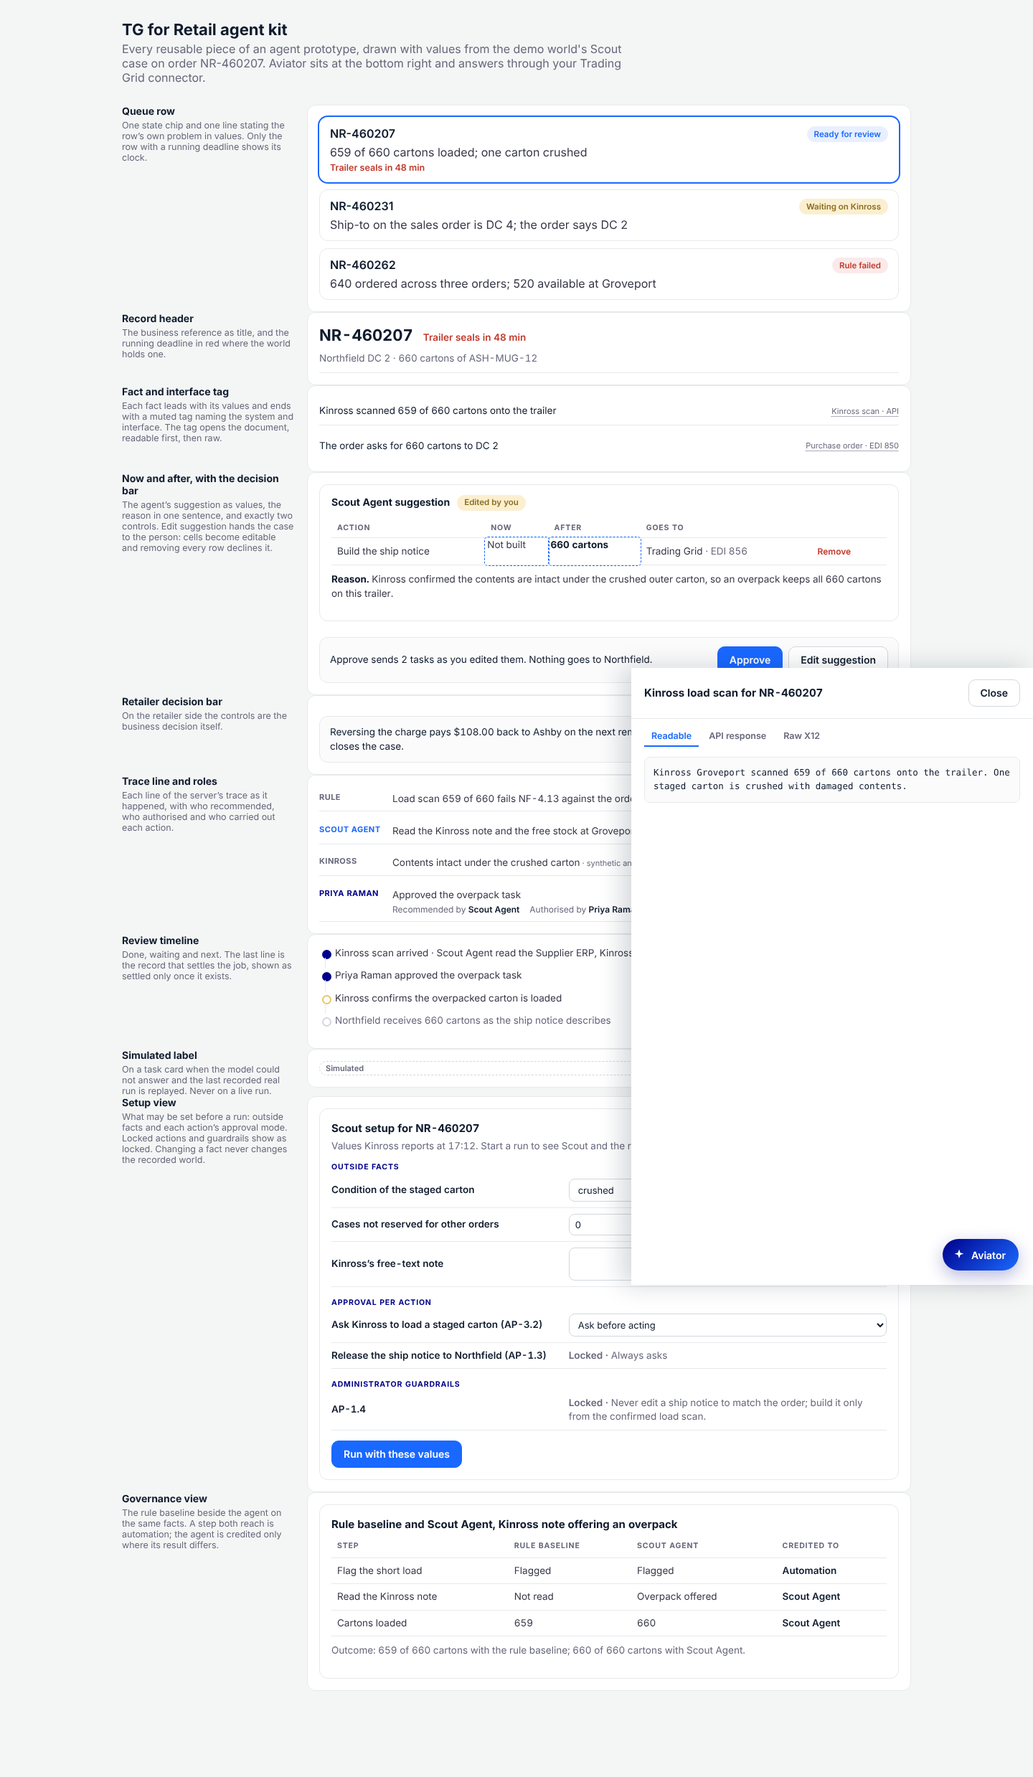
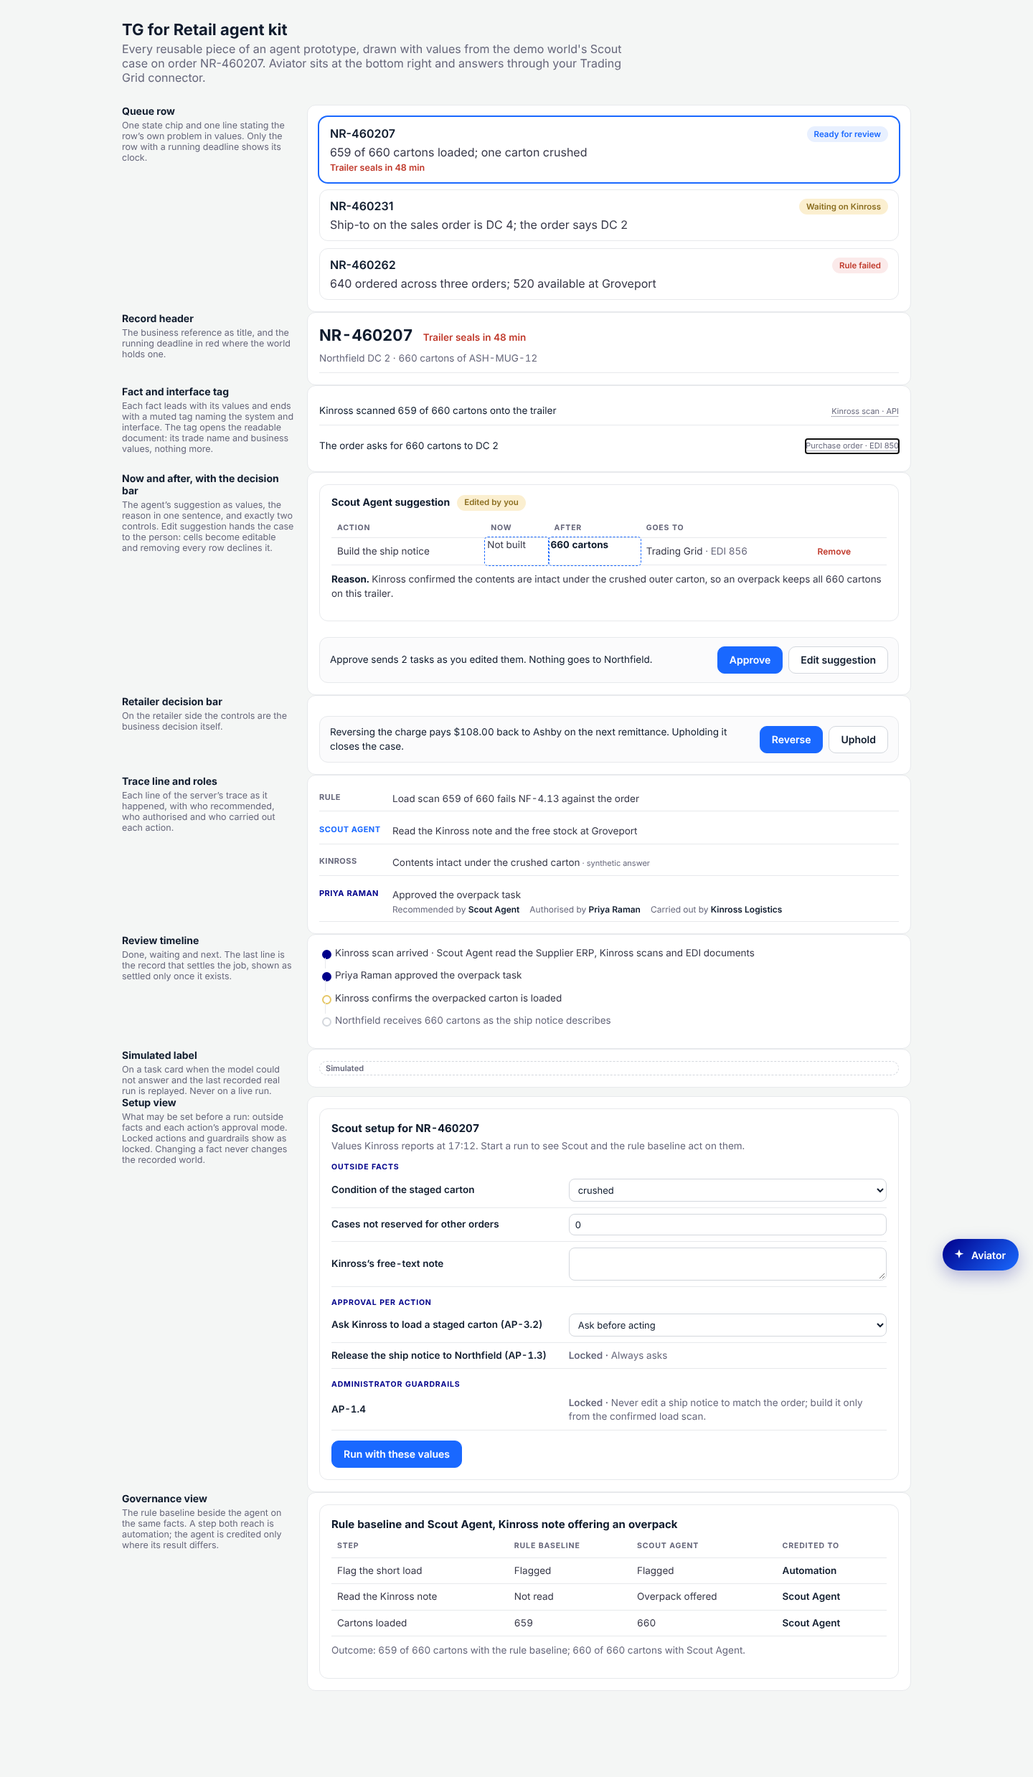
Raw X12 leaves every prototype screen: kit 1.2.0 drawer shows the readable document only; kit-check fails on any raw X12; T1.5 closed (D63, R43; CALLS 99)
Claude-Session: https://claude.ai/code/session_01FxHhsovKkRLnUgcFfGwYhX

Changed region(s): [[0.5938, 0.373, 0.8438, 0.715], [0.25, 0.2176, 0.2812, 0.2487]]

diff --git a/ui/tg-agent-kit.js b/ui/tg-agent-kit.js
@@ -43,9 +43,9 @@
 /* drawer */
 .tgk-drawer{position:fixed;inset:0 0 0 auto;width:min(560px,100vw);background:var(--tgk-card);box-shadow:-12px 0 32px rgba(15,27,45,.18);z-index:60;display:flex;flex-direction:column;transform:translateX(100%);transition:transform .22s ease}
 .tgk-drawer[data-open]{transform:none}.tgk-drawer header{display:flex;justify-content:space-between;align-items:center;padding:16px 18px;border-bottom:1px solid var(--tgk-divider)}
-.tgk-drawer h3{margin:0;font-size:15px;color:var(--tgk-ink)}.tgk-tabs{display:flex;gap:4px;padding:10px 18px 0}.tgk-tabs button{font:600 12.5px var(--tgk-font);border:0;background:none;padding:6px 10px;border-bottom:2px solid transparent;color:var(--tgk-muted);cursor:pointer}
-.tgk-tabs button[aria-selected=true]{color:var(--tgk-action);border-bottom-color:var(--tgk-action)}.tgk-drawer .body{padding:14px 18px;overflow:auto;flex:1}
-.tgk-drawer pre{font:12.5px/1.5 var(--tgk-mono);white-space:pre-wrap;word-break:break-all;background:var(--tgk-subtle);border:1px solid var(--tgk-divider);border-radius:8px;padding:12px;margin:0;color:var(--tgk-ink)}
+.tgk-drawer h3{margin:0;font-size:15px;color:var(--tgk-ink)}
+.tgk-drawer .body{padding:14px 18px;overflow:auto;flex:1}
+.tgk-doc{display:grid;grid-template-columns:max-content 1fr;gap:8px 16px;margin:0}.tgk-doc dt{color:var(--tgk-muted);font-size:12.5px}.tgk-doc dd{margin:0;color:var(--tgk-ink)}.tgk-doc-text{margin:0 0 10px;color:var(--tgk-ink)}
 /* now and after */
 .tgk-sugg{border:1px solid var(--tgk-divider);border-radius:12px;background:var(--tgk-card);padding:14px 16px}
 .tgk-sugg .head{display:flex;align-items:center;gap:10px;margin-bottom:10px}.tgk-sugg .head b{color:var(--tgk-ink);font-size:14px}
@@ -126,25 +126,30 @@
   /** The record header: business reference as title, the running deadline in red where one exists. */
   function recordHeader({ title, deadline, sub }) { return kit(el('div', { class: 'tgk-rhead' }, el('h2', { text: title }), deadline ? el('span', { class: 'deadline', text: deadline }) : null, sub ? el('span', { class: 'sub', text: sub }) : null)); }
 
-  /** The interface tag: system and interface in muted 11px text, no box; opens the document in the drawer. */
+  /** The interface tag: system and interface in muted 11px text, no box; opens the readable document in the drawer, and nothing more. */
   function interfaceTag({ system, via, doc }) {
     const label = [system, via].filter(Boolean).join(' · ');
-    return el('button', { class: 'tgk-tag', type: 'button', title: doc ? `Open ${doc.title}` : label, onclick: doc ? () => drawer(doc) : null, text: label });
+    return el('button', { class: 'tgk-tag', type: 'button', 'data-doc': doc ? 'readable' : null, title: doc ? `Open ${doc.title}` : label, onclick: doc ? () => drawer(doc) : null, text: label });
   }
 
   /** One fact the agent found, in values, ending with its interface tag. */
   function factRow({ text, system, via, doc }) { return kit(el('div', { class: 'tgk-fact' }, el('span', { class: 'text', text }), interfaceTag({ system, via, doc }))); }
 
   let openDrawer = null;
-  /** A drawer holding one document: readable first, then its raw format (raw X12, API request and response). */
-  function drawer({ title, tabs }) {
+  /** A drawer holding one readable document: its trade name and reference as the title, then its business values.
+   * Pass fields as [label, value] pairs, or content as a short readable text or Node. Nothing else is shown: no raw X12,
+   * no segment text, no request or response payload, no format tabs. A legacy tabs list is read for its Readable tab only. */
+  const RAW_X12 = /(^|[^A-Za-z0-9])(?:ISA|GS|ST|SE|GE|IEA|[A-Z][A-Z0-9]{1,2})\*[^\n]{0,80}?\*/;
+  function drawer({ title, fields, content, tabs }) {
     injectCss(); if (openDrawer) openDrawer.remove();
-    const body = el('div', { class: 'body' }); const bar = el('div', { class: 'tgk-tabs', role: 'tablist' });
-    const show = (i) => { body.replaceChildren(typeof tabs[i].content === 'string' ? el('pre', { text: tabs[i].content }) : tabs[i].content); [...bar.children].forEach((b, j) => b.setAttribute('aria-selected', String(i === j))); };
-    tabs.forEach((t, i) => bar.append(el('button', { type: 'button', role: 'tab', onclick: () => show(i), text: t.label })));
+    if (content == null && !fields && Array.isArray(tabs)) { const t = tabs.find((x) => /readable/i.test(x.label)) || tabs[0]; content = t && t.content; }
+    const body = el('div', { class: 'body' });
+    if (fields) body.append(el('dl', { class: 'tgk-doc' }, ...fields.flatMap(([k, v]) => [el('dt', { text: k }), el('dd', { text: String(v) })])));
+    if (content != null) body.append(typeof content === 'string' ? el('p', { class: 'tgk-doc-text', text: content }) : content);
+    if (RAW_X12.test(body.textContent)) { body.replaceChildren(el('p', { class: 'tgk-doc-text', text: 'This document is shown in readable form only.' })); }
     const close = () => { d.removeAttribute('data-open'); setTimeout(() => d.remove(), 240); openDrawer = null; };
-    const d = kit(el('aside', { class: 'tgk-drawer', role: 'dialog', 'aria-label': title }, el('header', {}, el('h3', { text: title }), el('button', { class: 'tgk-btn', type: 'button', onclick: close, text: 'Close' })), bar, body));
-    document.body.append(d); show(0); requestAnimationFrame(() => d.setAttribute('data-open', '')); openDrawer = d;
+    const d = kit(el('aside', { class: 'tgk-drawer', role: 'dialog', 'aria-label': title }, el('header', {}, el('h3', { text: title }), el('button', { class: 'tgk-btn', type: 'button', onclick: close, text: 'Close' })), body));
+    document.body.append(d); requestAnimationFrame(() => d.setAttribute('data-open', '')); openDrawer = d;
     document.addEventListener('keydown', function esc(e) { if (e.key === 'Escape') { close(); document.removeEventListener('keydown', esc); } });
     return d;
   }
@@ -272,5 +277,5 @@
     return { element: wrap, ask, open: () => { panel.setAttribute('data-open', ''); btn.setAttribute('aria-expanded', 'true'); } };
   }
 
-  root.TGAgentKit = Object.freeze({ version: '1.1.0', css: CSS, injectCss, connector, el, queueRow, recordHeader, interfaceTag, factRow, drawer, nowAfter, compareTable, decisionBar, sentState, roleTrace, traceLine, timeline, simulated, setupView, fromServerSetup, governanceView, aviator, SERVERS });
+  root.TGAgentKit = Object.freeze({ version: '1.2.0', css: CSS, injectCss, connector, el, queueRow, recordHeader, interfaceTag, factRow, drawer, nowAfter, compareTable, decisionBar, sentState, roleTrace, traceLine, timeline, simulated, setupView, fromServerSetup, governanceView, aviator, SERVERS });
 })(typeof window !== 'undefined' ? window : globalThis);

diff --git a/ui/kit-gallery.html b/ui/kit-gallery.html
@@ -26,8 +26,7 @@ section.piece>div:first-child h2{margin:0 0 4px;font-size:14px;color:var(--tgk-i
   const K = window.TGAgentKit; K.injectCss();
   const box = document.getElementById('pieces');
   const piece = (name, says, ...nodes) => { const s = K.el('section', { class: 'piece' }, K.el('div', {}, K.el('h2', { text: name }), K.el('p', { text: says })), K.el('div', { class: 'stage' }, ...nodes)); box.append(s); };
-  const x12 = 'ISA*00*          *00*          *ZZ*KINROSS        *ZZ*ASHBYSUP       *261208*2212*U*00401*000001412*0*P*>~\nGS*SW*KINROSS*ASHBYSUP*20261208*221200*1412*X*004010~\nST*945*0001~\nW06*N*W945-460207*20261208*SHP-460207**NR-460207~';
-  const doc = { title: 'Kinross load scan for NR-460207', tabs: [{ label: 'Readable', content: 'Kinross Groveport scanned 659 of 660 cartons onto the trailer. One staged carton is crushed with damaged contents.' }, { label: 'API response', content: '{\n "shipment": "SHP-460207",\n "cartons_loaded": 659,\n "cartons_expected": 660,\n "by_sscc": true\n}' }, { label: 'Raw X12', content: x12 }] };
+  const doc = { title: 'Kinross load scan for NR-460207', fields: [['From', 'Kinross Logistics, Groveport'], ['Order', 'NR-460207'], ['Cartons loaded', '659 of 660'], ['Exception', 'One staged carton crushed, contents damaged']] };
 
   piece('Queue row', 'One state chip and one line stating the row’s own problem in values. Only the row with a running deadline shows its clock.',
     K.queueRow({ ref: 'NR-460207', chip: 'Ready for review', tone: 'live', line: '659 of 660 cartons loaded; one carton crushed', clock: 'Trailer seals in 48 min', open: true }),
@@ -35,9 +34,9 @@ section.piece>div:first-child h2{margin:0 0 4px;font-size:14px;color:var(--tgk-i
     K.queueRow({ ref: 'NR-460262', chip: 'Rule failed', tone: 'fail', line: '640 ordered across three orders; 520 available at Groveport' }));
   piece('Record header', 'The business reference as title, and the running deadline in red where the world holds one.',
     K.recordHeader({ title: 'NR-460207', deadline: 'Trailer seals in 48 min', sub: 'Northfield DC 2 · 660 cartons of ASH-MUG-12' }));
-  piece('Fact and interface tag', 'Each fact leads with its values and ends with a muted tag naming the system and interface. The tag opens the document, readable first, then raw.',
+  piece('Fact and interface tag', 'Each fact leads with its values and ends with a muted tag naming the system and interface. The tag opens the readable document: its trade name and business values, nothing more.',
     K.factRow({ text: 'Kinross scanned 659 of 660 cartons onto the trailer', system: 'Kinross scan', via: 'API', doc }),
-    K.factRow({ text: 'The order asks for 660 cartons to DC 2', system: 'Purchase order', via: 'EDI 850', doc: { title: 'Purchase order NR-460207', tabs: [{ label: 'Readable', content: 'Northfield orders 660 cases of ASH-MUG-12 for DC 2.' }, { label: 'Raw X12', content: 'BEG*00*SA*NR-460207**20261201~' }] } }));
+    K.factRow({ text: 'The order asks for 660 cartons to DC 2', system: 'Purchase order', via: 'EDI 850', doc: { title: 'Purchase order NR-460207', fields: [['Buyer', 'Northfield Retailer'], ['Ship to', 'Northfield DC 2'], ['Item', 'ASH-MUG-12'], ['Quantity', '660 cases']] } }));
   let rows = [{ action: 'Overpack the crushed carton', now: '659 loaded', after: '660 loaded', goesTo: 'Kinross Logistics', via: 'API' }, { action: 'Build the ship notice', now: 'Not built', after: '660 cartons', goesTo: 'Trading Grid', via: 'EDI 856' }];
   const sugg = K.el('div'); const bar = K.el('div');
   const draw = (editing) => {

diff --git a/docs/build-guide.md b/docs/build-guide.md
@@ -63,6 +63,7 @@ Each rule has one home, here. Its ID is how `docs/guide/coverage.json` maps the 
 - **R11** No dates, feature IDs, durations beside buttons, green ticks, or stage labels such as detect, prioritize, act and verify.
 - **R12** No variant or scenario pickers.
 - **R13** Colours come only from the OpenText TG Retail Design System tokens.
+- **R43** No raw X12 on any prototype screen: no raw tab, panel or segment text. An interface tag may open the readable document, its trade name and business values, and nothing more. The world, the validators and both connections keep producing X12; only screens drop it, and `npm run kit-check` fails a page that shows any (D63).
 
 **Agents**
 
@@ -234,6 +235,7 @@ The owner approved change items 1 to 14 on 12 November. Two are done, five are p
 | D59 | The model behind Aviator runs on the server, never in a page: the key sits in the server's environment and a page posts its question to one endpoint. The owner supplied a Gemini key for testing and will rotate it; the model is gemini-3.5-flash-lite. A secondary key with gemini-3.8-flash takes over when the primary's quota is spent or the model is busy; the owner will rotate both. Source: owner, 13 and 15 November. | A decision to answer through the viewer's own connectors on a published page |
 | D60 | The world stays one relationship, Ashby and Northfield, and grows to cover every stage of procure-to-pay and order-to-cash between them, promotions included, so future prototypes find their records ready. Item data in the catalogue is evidence for avoiding and disputing charges. Values come from standards and public retailer guides first; expertise fills only the gaps, marked invented. Source: owner, 14 November. | A second relationship becoming necessary for a prototype |
 | D61 | An agent in a prototype is a real agent, not a scripted one: a model on the server chooses its reads and proposes actions in a session branched from the world at the story moment, with later records hidden. The server enforces each action's approval and the administrator guardrails. Kinross and Northfield answer by deterministic rules, labelled synthetic. A rule baseline runs on the same facts and actions, and a step is called automation where the two match. P5 is first (`src/scout.js`); P6, P7 and P9 must each show why an agent is needed. Source: owner, 14 November. | A prototype whose agent adds nothing over the baseline in every variation |
+| D63 | Raw X12 leaves every prototype screen: the agent kit's drawer shows the readable document only, kit-check fails a page with any raw X12 in its source, text or drawers, and raw X12 panels are no longer built or compared (R43). Source: owner, 15 November. | A demo audience that must see the wire format |
 | D62 | Phase 3 starts when the first build's dependencies are Done: T3.1, T2.2 and T2.3's built parts. The other Phase 1 and 2 rows run alongside it, and a Phase 1 row is pulled forward when a spec needs one of its records. T3.4 is folded into T3.2's Done when, because its own Done when named the prototype T3.2 builds. Source: owner, 15 November. | A spec that needs a world record a deferred Phase 1 row would add |
 
 **Open questions for the owner**
@@ -395,7 +397,7 @@ Evidence for each grid cell goes in `docs/phase0/`, under its check. For a grid-
 | T1.2 | P7 | Settle week 6 orders and the charge figure | — | `contract/claims.json` | Evidence: the world wins and does not change (D51); the live-page contract check moves to T4.15; CALLS 54 | Done |
 | T1.3 | World | Partner records in the timeline | — | Partner checks | Evidence: no partner record is added (D52); CALLS 54 | Done |
 | T1.4 | P8 | Shipments without a receipt | — | `docs/build-log/CALLS.md` | Other suppliers' shipments with no receipt are P8's stuck value. Kept as built: the owner left the call to the builder (CALLS 63) | Done |
-| T1.5 | All screens | Raw X12 panels generated from the world. The tools and the contract check are built; the screens' panels are not yet world text (`docs/phase1/T1.5-x12-panels.md`, CALLS 69). Each screen's panels change in its Phase 4 row | — | `build/tg.db`; `npm run contract` | Every raw X12 panel matches a world document byte for byte, checked by the contract test | Open |
+| T1.5 | All screens | Raw X12 panels generated from the world | — | R43 | No longer required: raw X12 leaves every screen (D63) and kit-check fails any page that shows it; CALLS 99 | Done |
 | T1.6 | P14, P15 | World records for every Prototype specs decision row: a price variance under NF-7.11, and other suppliers' ship notices that NFD-1 would fail | — | Prototype specs: P14 and P15; `docs/phase1/change-list-1.md`, its section C | Evidence: commit d286170; gate checks `nf.match.price_held`, `nf.match.price_cleared_by_change`, `nf.match.total_fault`, `nf.replay.nfd2` and `nf.replay.nfd1_reaches_other_suppliers`; CALLS 59 | Done |
 | T1.8 | P7 | World record for a Northfield scorecard after the corrective work | — | P7's Inventory row | Evidence: not needed once P7's ending moved to shared figures, CALLS 38 | Done |
 | T1.7 | P2 | Supplier vetting in the world: one supplier vetted by a third party, one that confirms vetting itself, and a Northfield rule that activation waits for either | — | D31; Prototype specs, Supplier vetting in P2 | Not needed; CALLS 90 | Done |
@@ -516,12 +518,12 @@ The gate and smoke tests pass at commit 5314193af2. Two of the plan's proofs hav
 | Server smoke: both scopes, refusals, the shared deduction case | `npm run smoke` | 84 passed, 0 failed |
 | X12 validation | `npm run validate` | Passes, but its schemas were generated in this repo, so it does not meet the independent-schema test |
 | X12 against schemas this repo did not write | `validator/botscheck.py` with the bots-grammars X12 grammars | Every document checked; it faults exactly the documents the world rejects on a 997, and nothing else; all ten injected faults are rejected for their reason (`validator/bots-report.json`) |
-| Contract test of on-screen values: it checks every number a screen shows and requires none | `npm run contract` | Run on the live pages on 15 November for P1, P2, P4, P5, P6, P7 and P8 (`docs/phase3/contract-report-2026-11-15.json`): P2 and P4 pass; P1 and P8 differ only in raw X12 panels (T1.5); P5, P6 and P7 differ in dates, rule wording and, for P7, three order numbers, each a Phase 4 row. P9 and P11 were read but not saved as files, so only their record numbers were checked by hand: P9 shows one sales order number the world lacks, and P11 shows five record numbers the world lacks, including its ship notice number. P12 is retired. |
+| Contract test of on-screen values: it checks every number a screen shows and requires none | `npm run contract` | Run on the live pages on 15 November for P1, P2, P4, P5, P6, P7 and P8 (`docs/phase3/contract-report-2026-11-15.json`): P2 and P4 pass; P1 and P8 differ only in raw X12 panels, which leave the screens under R43; P5, P6 and P7 differ in dates, rule wording and, for P7, three order numbers, each a Phase 4 row. P9 and P11 were read but not saved as files, so only their record numbers were checked by hand: P9 shows one sales order number the world lacks, and P11 shows five record numbers the world lacks, including its ship notice number. P12 is retired. |
 | Golden questions, Ashby agents, scorecard and deductions | `docs/phase0/golden/grade-report.json` | 49 of 50. The earlier set's grader was never committed. |
 | Golden questions, Northfield | `docs/phase2/golden-nf/grade-report.json` | 50 of 50 |
 | Live server | /healthz | ok, version 0.3.0, writes on, Aviator on, read on 14 November with commit cd9717d deployed |
 | Aviator loop, tool declarations, model fallback and refusals | `npm run aviator-test` | 11 passed, 0 failed, against a stand-in model. Live with gemini-3.5-flash-lite on the built world: P11's hold answered correctly, another supplier's cases refused, Ashby's own cases counted correctly (`docs/phase2/aviator-live-2026-11-13.txt`) |
-| Agent kit in a real browser: two decision controls, no green or tick, Aviator closed on load and honest without a connector | `npm run kit-check` | All passed at commit 5314193af2 |
+| Agent kit in a real browser: two decision controls, no green or tick, no raw X12 in a page's source, text or drawers, every interface tag opening a readable document, Aviator closed on load and honest without a connector | `npm run kit-check` | All passed at commit 5314193af2 |
 | Agent governance golden questions | `docs/phase2/golden-gov/grade-report.json` | 25 of 25 |
 | Property-based invariants on quantities, time order and money | — | Not built; the gate checks invariants on the one generated quarter only |
 | Fresh agent answers ten builder questions from the docs | Reader tests, 13 November. First: ten answered from the guide alone; gaps fixed in CALLS 31. Second, after the owner decisions: ten of ten correct, including where P4 ends and where P9's business problem is; gaps fixed in CALLS 34 | Passed |

diff --git a/docs/build-log/CALLS.md b/docs/build-log/CALLS.md
@@ -191,3 +191,5 @@ The as-of commit moves to 24b2c5c, the commit that marked P16 out of scope in th
 97. **Agent governance golden questions: T2.3 Done.** Five questions on agent state and authority, a trial of a changed agent rule, Scout's locked actions and guardrails, the rule baseline's outcome, and Northfield's pause and resume rights, each answered in five no-context runs through the live connectors only: 25 of 25 (`docs/phase2/golden-gov/RESULTS.md`). Every trial run left AP-4.1 at $250.
 
 98. **World coverage complete; P15 built; P13 and P14 runtimes started.** Promotions (889, five deals, settlement on a new remittance with two matched and three unauthorised deductions) and adjustments and returns (180, Ashby's 812 credit memos, every repayment linked to the deduction it reverses) merged, so all eight world-coverage rows are Done. Gate 655, smoke 84, StAEDI and bots-grammars pass on 38,154 transaction sets, world-diff finds no earlier row changed but Lakeline's interchange id. Two calls: (1) thirteen history repayments (DM-41001 to DM-41019) are dated before the deduction they reverse; fixing them moves 23 history remittances, so they stay as recorded and the gate names them as known exceptions so no new one can appear; (2) the world now settles to 9 January 2027, so both connections say so. Deal prices on order lines and off-invoice allowances on invoices are not in the world, because no existing order or invoice may change; the off-invoice deal's window is February 2027. P15 Rule Replay is built from the agent kit as a plain retailer screen and published; through Northfield's live connector it returned the same replay the page shows. P13's Watch Agent runtime is on branch agent/watch, tested without a model; P14's Match Agent runtime is in progress on agent/match. *Would change:* the owner approving a history re-baseline for the thirteen repayments.
+
+99. **Raw X12 leaves every prototype screen (D63, R43).** The owner ruled that no prototype screen shows raw X12: no raw tab, panel or segment text; an interface tag may open the readable document, its trade name and business values, and nothing more. The world, validators and both connections keep producing X12. Agent kit 1.2.0: the drawer shows a title and business values only, a legacy tabs list is read for its Readable tab and nothing else, and a drawer that would show segment text shows a readable-only line instead. `npm run kit-check` now fails a page with raw X12 in its source, its visible text or any drawer an interface tag opens, or with format tabs in a drawer; run against the previous kit gallery it fails on both counts, and the new gallery and P15 pass. Republished: the kit page and the design system's kit library (kit file and the interface tag card). P15 shows no document drawer, so its published page is unchanged. T1.5 is closed as no longer required, since no screen keeps a raw X12 panel to match against the world. The prototypes that still show raw X12 (P1, P8 and others found by the contract run) lose it in their rework rows; P1, P2 and P4 are closed (D48), so their pages keep it unless the owner reopens them. *Would change:* a demo audience that must see the wire format, which would bring it back behind a separate builder-only page, never a prototype screen.
